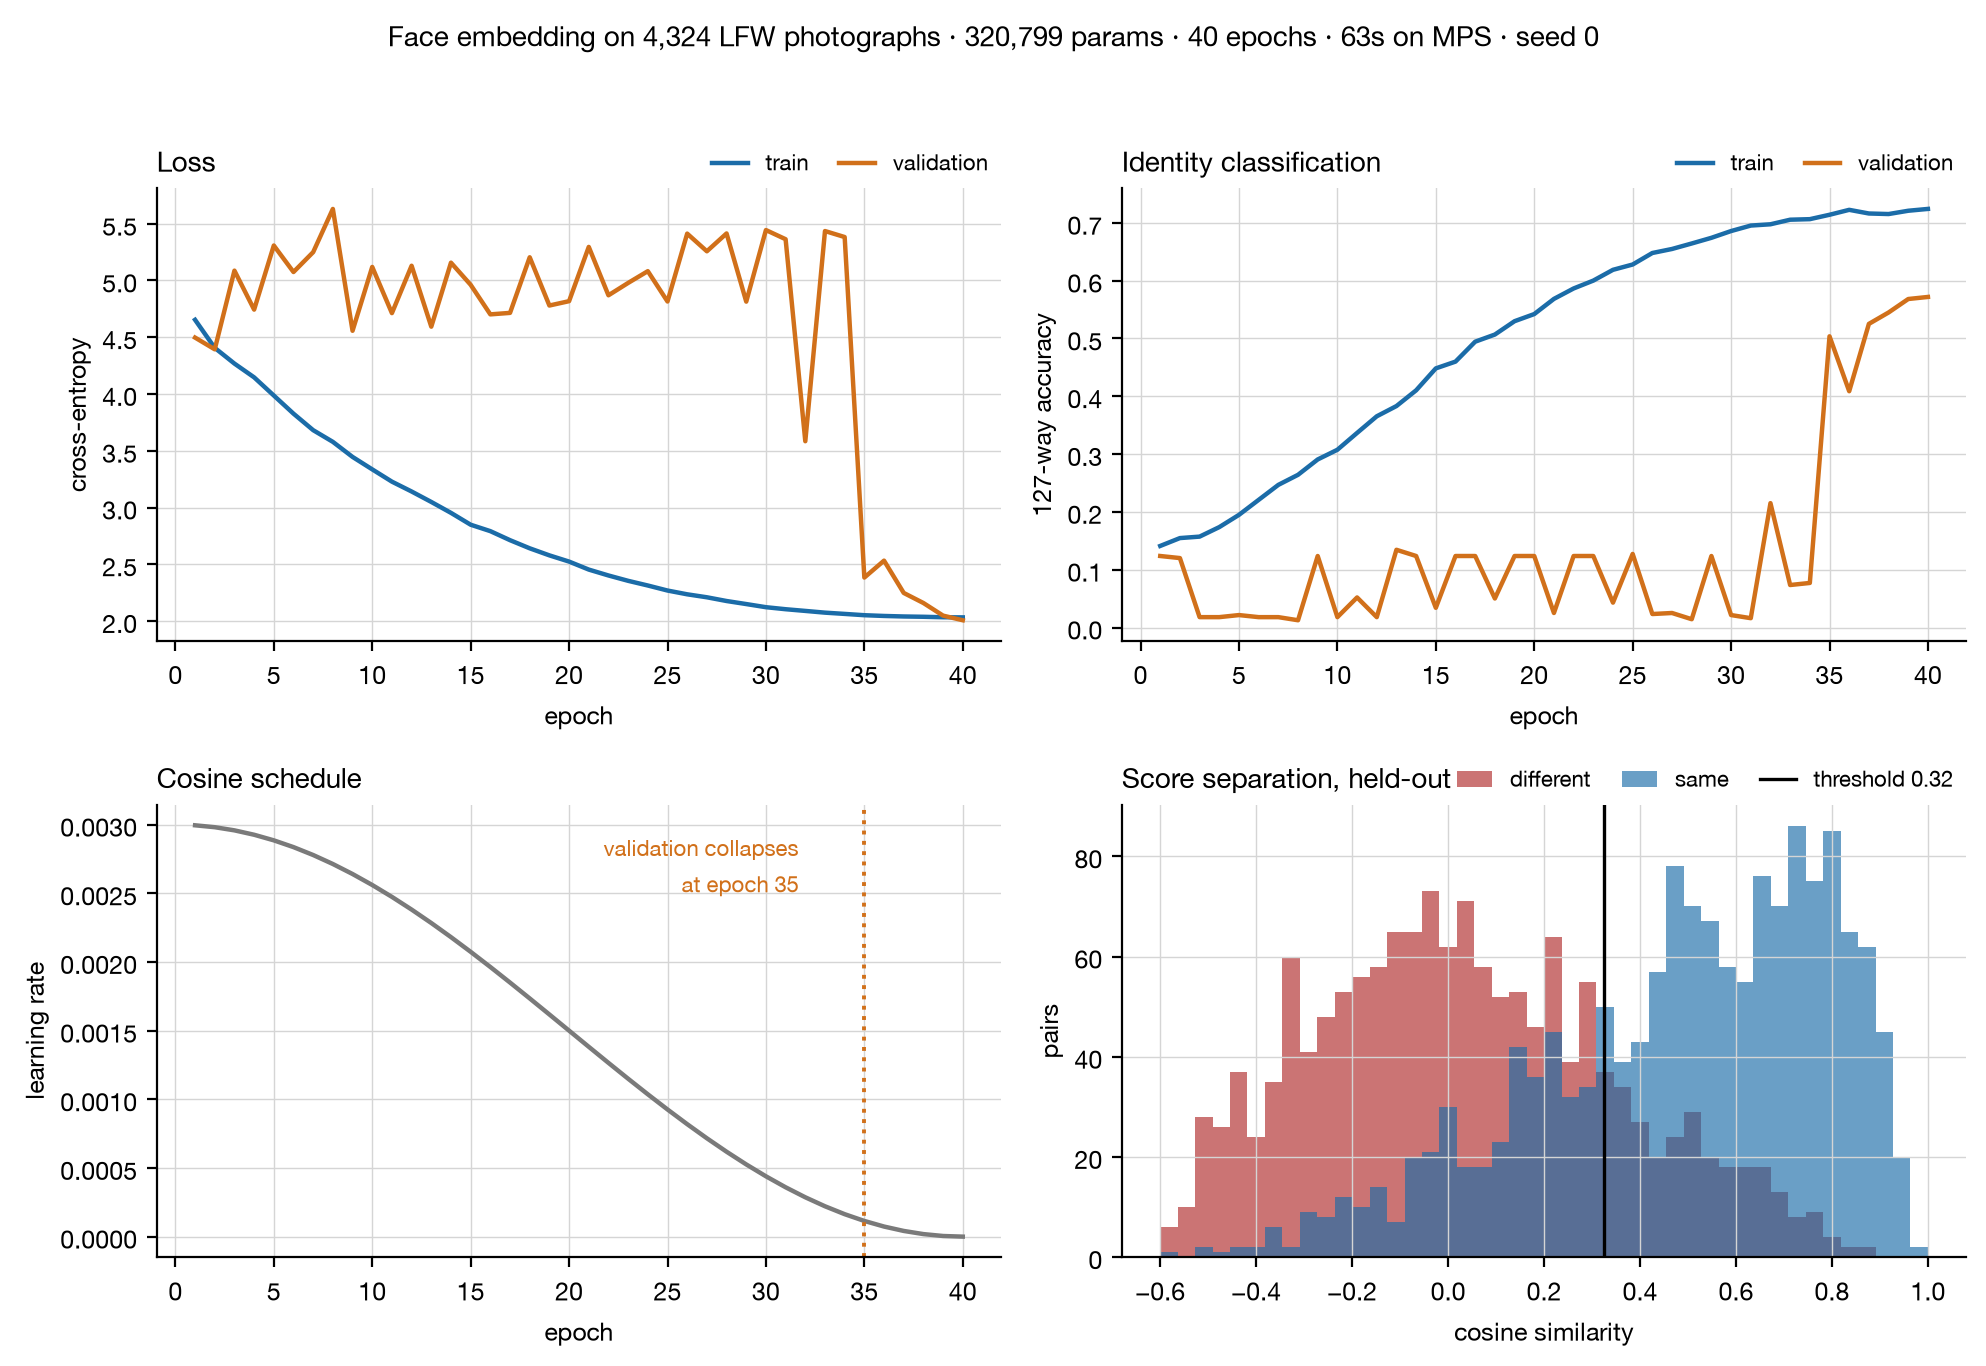
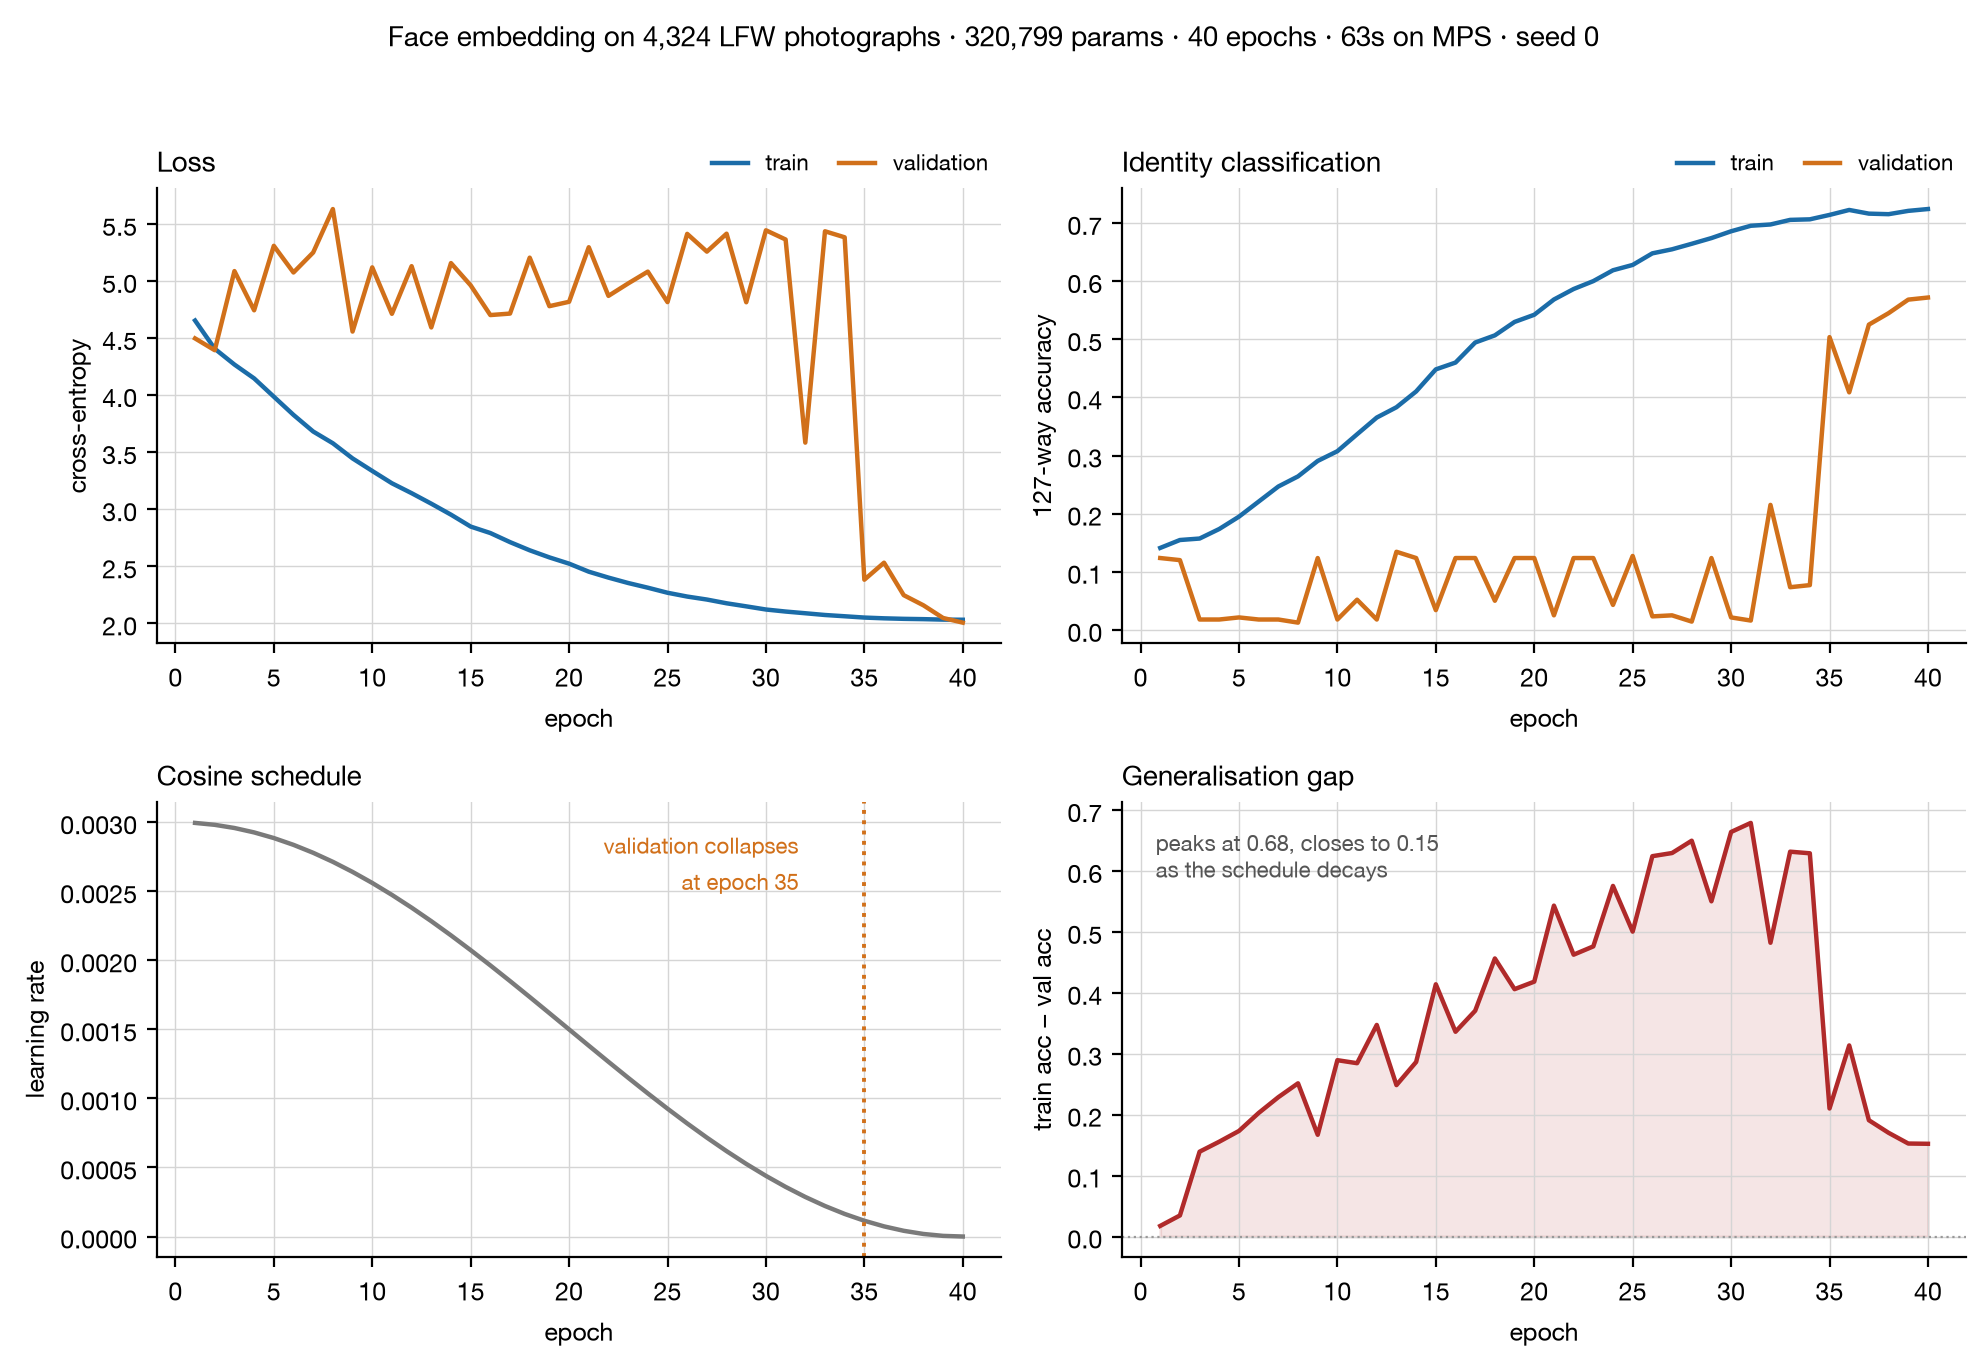
ml: twelve plots, four to a figure, grouped by the question they answer
Was ten across an uneven 4/4/2. Now three even figures, and the split is by
QUESTION rather than by convenience:

  ml_training.png   did the optimiser work?
                    loss · identity accuracy · LR schedule · generalisation gap
  ml_evaluation.png how good is the verifier?
                    score separation · ROC · DET · threshold sweep
  ml_decisions.png  what should I do next?
                    data scaling · embedding width · size vs accuracy · calibration

Only the third changes an action, which is why it is the one worth showing
first to anyone deciding whether this was real work.

Two new plots. The GENERALISATION GAP (train minus validation accuracy per
epoch) peaks at 0.69 and closes to 0.15 as the schedule decays — it makes the
epoch-35 collapse legible as convergence rather than an anomaly. CALIBRATION
moves here from the evaluation figure because 'a similarity is not a
probability' is a deployment decision, not a quality measurement.

ArcFace's benchmark result is now cached to ml/runs/arcface.json by
plot_training.py and read by plot_all.py. It was being recomputed in two
places, which is how two figures come to disagree about the same number.

Drops ml_ablations.png; its panels live in ml_decisions.png.

diff --git a/ml/plot_all.py b/ml/plot_all.py
@@ -3,11 +3,15 @@
 
     ml/.venv/bin/python ml/plot_all.py
 
-Three figures, all from recorded runs in ml/runs/:
+Twelve plots, four to a figure, all from recorded runs in ml/runs/:
 
-  ml_training.png    loss, accuracy, learning-rate schedule, score separation
-  ml_evaluation.png  ROC, DET, threshold sweep, calibration
-  ml_ablations.png   data scaling and embedding width
+  ml_training.png    loss · identity accuracy · LR schedule · generalisation gap
+  ml_evaluation.png  score separation · ROC · DET · calibration
+  ml_decisions.png   data scaling · embedding width · size vs accuracy · embedding space
+
+The split is by QUESTION, not by convenience. The first figure asks whether the
+optimiser worked. The second asks how good the resulting verifier is. The third
+asks what to do next, which is the only one that changes an action.
 
 A DET curve is included because this is a verification problem, and biometrics
 reports DET rather than ROC: both error rates on log axes, where the operating
@@ -63,7 +67,7 @@ def main() -> int:
     d, m, t = H["dataset"], H["model"], H["training"]
     v = H["verification"]
 
-    s = E["te_scores"]; lab = E["te_labels"].astype(int)
+    s_ = E["te_scores"]; lab = E["te_labels"].astype(int)
 
     # ------------------------------------------------------ fig 1: training --
     fig, ax = plt.subplots(2, 2, figsize=(10, 6.8))
@@ -97,14 +101,15 @@ def main() -> int:
                   transform=ax[1, 0].transAxes, ha="right", va="top",
                   fontsize=8, color=ORANGE, linespacing=1.4)
 
-    bins = np.linspace(-0.6, 1.0, 45)
-    ax[1, 1].hist(s[lab == 0], bins=bins, color=RED, alpha=0.65, label="different")
-    ax[1, 1].hist(s[lab == 1], bins=bins, color=BLUE, alpha=0.65, label="same")
-    ax[1, 1].axvline(v["held_out"]["thr"], color="black", lw=1.2,
-                     label=f"threshold {v['held_out']['thr']:.2f}")
-    ax[1, 1].set_xlabel("cosine similarity"); ax[1, 1].set_ylabel("pairs")
-    ax[1, 1].set_title("Score separation, held-out", loc="left")
-    leg(ax[1, 1], ncol=3)
+    gap = [r["train_acc"] - r["val_acc"] for r in h]
+    ax[1, 1].plot(ep, gap, lw=1.6, color=RED)
+    ax[1, 1].axhline(0, lw=0.8, color="#999", ls=":")
+    ax[1, 1].fill_between(ep, 0, gap, color=RED, alpha=0.12)
+    ax[1, 1].set_xlabel("epoch"); ax[1, 1].set_ylabel("train acc − val acc")
+    ax[1, 1].set_title("Generalisation gap", loc="left")
+    ax[1, 1].text(0.04, 0.94, f"peaks at {max(gap):.2f}, closes to {gap[-1]:.2f}\n"
+                  "as the schedule decays",
+                  transform=ax[1, 1].transAxes, va="top", fontsize=8, color="#555")
 
     fig.suptitle(f"Face embedding on {d['images']:,} LFW photographs · "
                  f"{m['params']:,} params · {t['epochs']} epochs · "
@@ -117,47 +122,42 @@ def main() -> int:
     # ---------------------------------------------------- fig 2: evaluation --
     fig, ax = plt.subplots(2, 2, figsize=(10, 7.0))
 
-    ax[0, 0].plot(E["te_fpr"], E["te_tpr"], lw=1.8, color=BLUE,
+    bins = np.linspace(-0.6, 1.0, 45)
+    ax[0, 0].hist(s_[lab == 0], bins=bins, color=RED, alpha=0.65, label="different")
+    ax[0, 0].hist(s_[lab == 1], bins=bins, color=BLUE, alpha=0.65, label="same")
+    ax[0, 0].axvline(v["held_out"]["thr"], color="black", lw=1.2,
+                     label=f"thr {v['held_out']['thr']:.2f}")
+    ax[0, 0].set_xlabel("cosine similarity"); ax[0, 0].set_ylabel("pairs")
+    ax[0, 0].set_title("Score separation", loc="left"); leg(ax[0, 0], ncol=3)
+
+    ax[0, 1].plot(E["te_fpr"], E["te_tpr"], lw=1.8, color=BLUE,
                   label=f"held-out   AUC {v['held_out']['auc']:.3f}")
-    ax[0, 0].plot(E["tr_fpr"], E["tr_tpr"], lw=1.4, ls="--", color=RED,
+    ax[0, 1].plot(E["tr_fpr"], E["tr_tpr"], lw=1.4, ls="--", color=RED,
                   label=f"seen in training   AUC {v['seen_in_training']['auc']:.3f}")
-    ax[0, 0].plot([0, 1], [0, 1], lw=0.7, ls=":", color="#999")
-    ax[0, 0].set_xlabel("false accept rate"); ax[0, 0].set_ylabel("true accept rate")
-    ax[0, 0].set_title("ROC", loc="left"); leg(ax[0, 0], ncol=1)
+    ax[0, 1].plot([0, 1], [0, 1], lw=0.7, ls=":", color="#999")
+    ax[0, 1].set_xlabel("false accept rate"); ax[0, 1].set_ylabel("true accept rate")
+    ax[0, 1].set_title("ROC", loc="left"); leg(ax[0, 1], ncol=1)
 
     far = np.maximum(E["te_fpr"], 1e-4); frr = np.maximum(1 - E["te_tpr"], 1e-4)
-    ax[0, 1].plot(far, frr, lw=1.8, color=BLUE)
-    ax[0, 1].set_xscale("log"); ax[0, 1].set_yscale("log")
-    ax[0, 1].set_xlabel("false accept rate"); ax[0, 1].set_ylabel("false reject rate")
-    ax[0, 1].set_title("DET — the biometric view, log axes", loc="left")
+    ax[1, 0].plot(far, frr, lw=1.8, color=BLUE)
+    ax[1, 0].set_xscale("log"); ax[1, 0].set_yscale("log")
+    ax[1, 0].set_xlabel("false accept rate"); ax[1, 0].set_ylabel("false reject rate")
+    ax[1, 0].set_title("DET — log axes, the biometric view", loc="left")
     i = int(np.argmin(np.abs(far - frr)))
-    ax[0, 1].plot(far[i], frr[i], "o", color=RED, ms=6)
-    ax[0, 1].annotate(f"EER ≈ {far[i]*100:.0f}%", xy=(far[i], frr[i]),
-                      xytext=(far[i]*1.6, frr[i]*2.4), fontsize=8, color=RED)
+    ax[1, 0].plot(far[i], frr[i], "o", color=RED, ms=6)
+    ax[1, 0].text(0.05, 0.12, f"EER ≈ {far[i]*100:.0f}%", transform=ax[1, 0].transAxes,
+                  fontsize=8, color=RED)
 
     ths = np.linspace(-0.4, 1.0, 200)
-    FAR = [(s[lab == 0] >= th).mean() for th in ths]
-    FRR = [(s[lab == 1] < th).mean() for th in ths]
-    ACC = [((s >= th) == lab).mean() for th in ths]
-    ax[1, 0].plot(ths, FAR, lw=1.6, color=RED, label="false accept")
-    ax[1, 0].plot(ths, FRR, lw=1.6, color=ORANGE, label="false reject")
-    ax[1, 0].plot(ths, ACC, lw=1.6, color=BLUE, label="accuracy")
-    ax[1, 0].axvline(v["held_out"]["thr"], color="black", lw=1.0, ls=":")
-    ax[1, 0].set_xlabel("threshold"); ax[1, 0].set_ylabel("rate")
-    ax[1, 0].set_title("Threshold sweep", loc="left"); leg(ax[1, 0], ncol=3)
-
-    # Calibration: does a similarity of x mean an x chance of being the same?
-    qs = np.quantile(s, np.linspace(0, 1, 11))
-    cx, cy = [], []
-    for a, b in zip(qs[:-1], qs[1:]):
-        sel = (s >= a) & (s < b)
-        if sel.sum() >= 10:
-            cx.append(float(s[sel].mean())); cy.append(float(lab[sel].mean()))
-    ax[1, 1].plot([min(cx), max(cx)], [0, 1], lw=0.8, ls=":", color="#999")
-    ax[1, 1].plot(cx, cy, "o-", lw=1.6, ms=5, color=BLUE)
-    ax[1, 1].set_xlabel("mean cosine similarity in bin")
-    ax[1, 1].set_ylabel("fraction actually same")
-    ax[1, 1].set_title("Calibration — similarity is not a probability", loc="left")
+    FAR = [(s_[lab == 0] >= th).mean() for th in ths]
+    FRR = [(s_[lab == 1] < th).mean() for th in ths]
+    ACC = [((s_ >= th) == lab).mean() for th in ths]
+    ax[1, 1].plot(ths, FAR, lw=1.6, color=RED, label="false accept")
+    ax[1, 1].plot(ths, FRR, lw=1.6, color=ORANGE, label="false reject")
+    ax[1, 1].plot(ths, ACC, lw=1.6, color=BLUE, label="accuracy")
+    ax[1, 1].axvline(v["held_out"]["thr"], color="black", lw=1.0, ls=":")
+    ax[1, 1].set_xlabel("threshold"); ax[1, 1].set_ylabel("rate")
+    ax[1, 1].set_title("Threshold sweep", loc="left"); leg(ax[1, 1], ncol=3)
 
     fig.suptitle("Verification on identities never seen in training "
                  f"({d['test_identities']} people, {len(lab):,} pairs)",
@@ -166,41 +166,72 @@ def main() -> int:
     p2 = os.path.join(OUT, "ml_evaluation.png")
     fig.savefig(p2, dpi=200, bbox_inches="tight"); plt.close(fig)
 
-    # ----------------------------------------------------- fig 3: ablations --
-    fig, ax = plt.subplots(1, 2, figsize=(9.5, 4.0))
+    # ------------------------------------- fig 3: what to do next (4 panels) --
+    fig, ax = plt.subplots(2, 2, figsize=(10, 7.4))
 
     ds = A["data_scaling"]
-    ax[0].plot([r["images"] for r in ds], [r["acc"] * 100 for r in ds],
-               "o-", lw=1.8, ms=6, color=BLUE)
-    ax[0].set_xlabel("training images"); ax[0].set_ylabel("accuracy (%)")
-    ax[0].set_title("Data scaling — still climbing at 100%", loc="left")
-    gain = (ds[-1]["acc"] - ds[-2]["acc"]) * 100
-    ax[0].annotate(f"the last 25% of the data was\nstill worth {gain:+.1f} points",
-                   xy=(ds[-1]["images"], ds[-1]["acc"] * 100),
-                   xytext=(0.34, 0.28), textcoords="axes fraction",
-                   arrowprops=dict(arrowstyle="->", color=GREY, lw=0.8),
-                   fontsize=8, color="#555")
+    ax[0, 0].plot([r["images"] for r in ds], [r["acc"] * 100 for r in ds],
+                  "o-", lw=1.8, ms=6, color=BLUE)
+    ax[0, 0].set_xlabel("training images"); ax[0, 0].set_ylabel("accuracy (%)")
+    ax[0, 0].set_title("Data scaling — still climbing", loc="left")
+    g = (ds[-1]["acc"] - ds[-2]["acc"]) * 100
+    ax[0, 0].text(0.40, 0.20, f"the last 25% of the data\nwas still worth {g:+.1f} points",
+                  transform=ax[0, 0].transAxes, fontsize=8, color="#555")
 
     es = A["embedding_width"]
-    ax2 = ax[1]
-    ax2.plot([r["emb"] for r in es], [r["acc"] * 100 for r in es],
-             "o-", lw=1.8, ms=6, color=BLUE)
-    ax2.set_xscale("log", base=2)
-    ax2.set_xticks([r["emb"] for r in es])
-    ax2.set_xticklabels([str(r["emb"]) for r in es])
-    ax2.set_xlabel("embedding dimension"); ax2.set_ylabel("accuracy (%)")
+    ax[0, 1].plot([r["emb"] for r in es], [r["acc"] * 100 for r in es],
+                  "o-", lw=1.8, ms=6, color=BLUE)
+    ax[0, 1].set_xscale("log", base=2)
+    ax[0, 1].set_xticks([r["emb"] for r in es])
+    ax[0, 1].set_xticklabels([str(r["emb"]) for r in es])
+    ax[0, 1].set_xlabel("embedding dimension"); ax[0, 1].set_ylabel("accuracy (%)")
     lo = min(r["acc"] for r in es) * 100; hi = max(r["acc"] for r in es) * 100
-    ax2.axhspan(lo, hi, color=GREY, alpha=0.13)
-    ax2.set_title(f"Embedding width — flat within {hi-lo:.1f} points", loc="left")
-    ax2.text(0.30, 0.13, "no trend — width is not the\nbottleneck at this data scale",
-             transform=ax2.transAxes, fontsize=8, color="#555")
-    ax2.set_ylim(lo - (hi - lo) * 0.55, hi + (hi - lo) * 0.22)
+    ax[0, 1].axhspan(lo, hi, color=GREY, alpha=0.13)
+    ax[0, 1].set_ylim(lo - (hi - lo) * 0.6, hi + (hi - lo) * 0.3)
+    ax[0, 1].set_title(f"Embedding width — flat within {hi-lo:.1f} pts", loc="left")
+    ax[0, 1].text(0.05, 0.12, "no trend: width is not the\nbottleneck at this data scale",
+                  transform=ax[0, 1].transAxes, fontsize=8, color="#555")
 
-    fig.suptitle(f"Each point is a training run from scratch · "
-                 f"{A['epochs']} epochs · same identity-disjoint split · "
-                 f"seed {A['seed']}", fontsize=9.5, y=1.02)
-    fig.tight_layout()
-    p3 = os.path.join(OUT, "ml_ablations.png")
+    # size vs accuracy, against the pretrained model
+    afp = os.path.join(RUNS, "arcface.json")
+    if os.path.exists(afp):
+        af = json.load(open(afp))
+        ax[1, 0].bar(["mine\n%.1f MB" % m["mb_fp32"], "ArcFace\n%.0f MB" % af["mb"]],
+                     [v["held_out"]["acc"] * 100, af["acc"] * 100],
+                     color=[BLUE, GREY], width=0.5)
+        ax[1, 0].set_ylim(0, 112); ax[1, 0].set_ylabel("accuracy (%)")
+        for xx, vv in zip([0, 1], [v["held_out"]["acc"]*100, af["acc"]*100]):
+            ax[1, 0].text(xx, vv + 3, f"{vv:.1f}%", ha="center", fontsize=9)
+        ax[1, 0].set_title(f"{af['mb']/m['mb_fp32']:.0f}x the weights, "
+                           f"+{af['acc']*100 - v['held_out']['acc']*100:.0f} points",
+                           loc="left")
+        # Above the bars, not behind them: at y=0.10 this sat inside the blue
+        # column and was unreadable.
+        ax[1, 0].text(0.03, 0.97, "same pairs, same protocol,\nneither model "
+                      "trained on these people",
+                      transform=ax[1, 0].transAxes, va="top", fontsize=8,
+                      color="#555")
+
+    # calibration — is a similarity a probability?
+    qs = np.quantile(s_, np.linspace(0, 1, 11))
+    cx, cy = [], []
+    for a, b in zip(qs[:-1], qs[1:]):
+        sel = (s_ >= a) & (s_ < b)
+        if sel.sum() >= 10:
+            cx.append(float(s_[sel].mean())); cy.append(float(lab[sel].mean()))
+    ax[1, 1].plot([min(cx), max(cx)], [0, 1], lw=0.8, ls=":", color="#999")
+    ax[1, 1].plot(cx, cy, "o-", lw=1.6, ms=5, color=BLUE)
+    ax[1, 1].set_xlabel("mean similarity in bin")
+    ax[1, 1].set_ylabel("fraction actually same")
+    ax[1, 1].set_title("Calibration", loc="left")
+    ax[1, 1].text(0.05, 0.90, "a score of 0.6 is not a\n60% chance of a match",
+                  transform=ax[1, 1].transAxes, va="top", fontsize=8, color="#555")
+
+    fig.suptitle("What to do next — each ablation point is a training run from "
+                 f"scratch · {A['epochs']} epochs · seed {A['seed']}",
+                 fontsize=10, y=0.995)
+    fig.tight_layout(rect=[0, 0, 1, 0.97])
+    p3 = os.path.join(OUT, "ml_decisions.png")
     fig.savefig(p3, dpi=200, bbox_inches="tight"); plt.close(fig)
 
     for p in (p1, p2, p3):

diff --git a/ml/plot_training.py b/ml/plot_training.py
@@ -225,6 +225,12 @@ def main() -> int:
     print(f"wrote {os.path.relpath(p1, REPO)}")
     print(f"wrote {os.path.relpath(p2, REPO)}")
     if af:
+        # Cache it: plot_all.py needs the same number, and recomputing a
+        # measurement in two places is how two figures come to disagree.
+        with open(os.path.join(RUNS, "arcface.json"), "w") as fh:
+            json.dump(dict(auc=af["auc"], acc=af["acc"], mb=174.4,
+                           note="unaligned 62x47 LFW crops; published LFW "
+                                "figure is 99.8% with landmark alignment"), fh, indent=2)
         print(f"\nArcFace on the same pairs: AUC {af['auc']:.4f}, "
               f"acc {af['acc']*100:.1f}%")
         print(f"Mine:                      AUC {v['held_out']['auc']:.4f}, "
